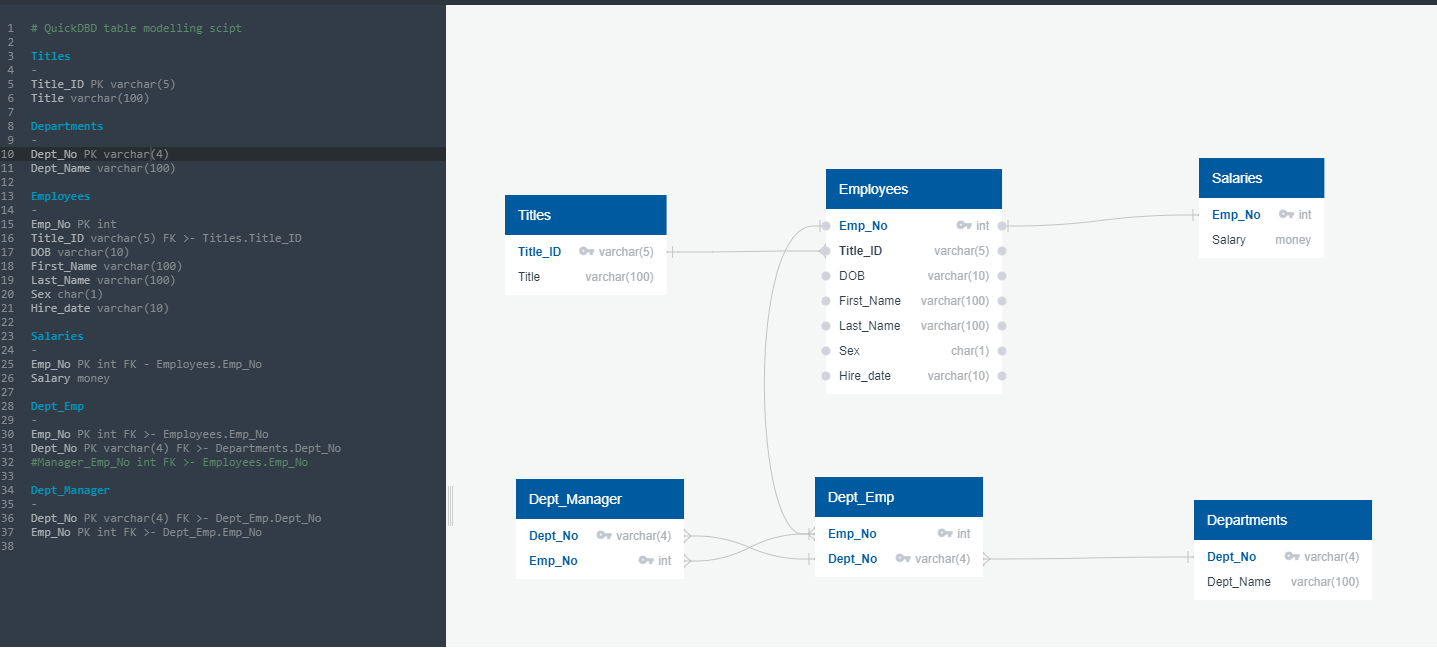
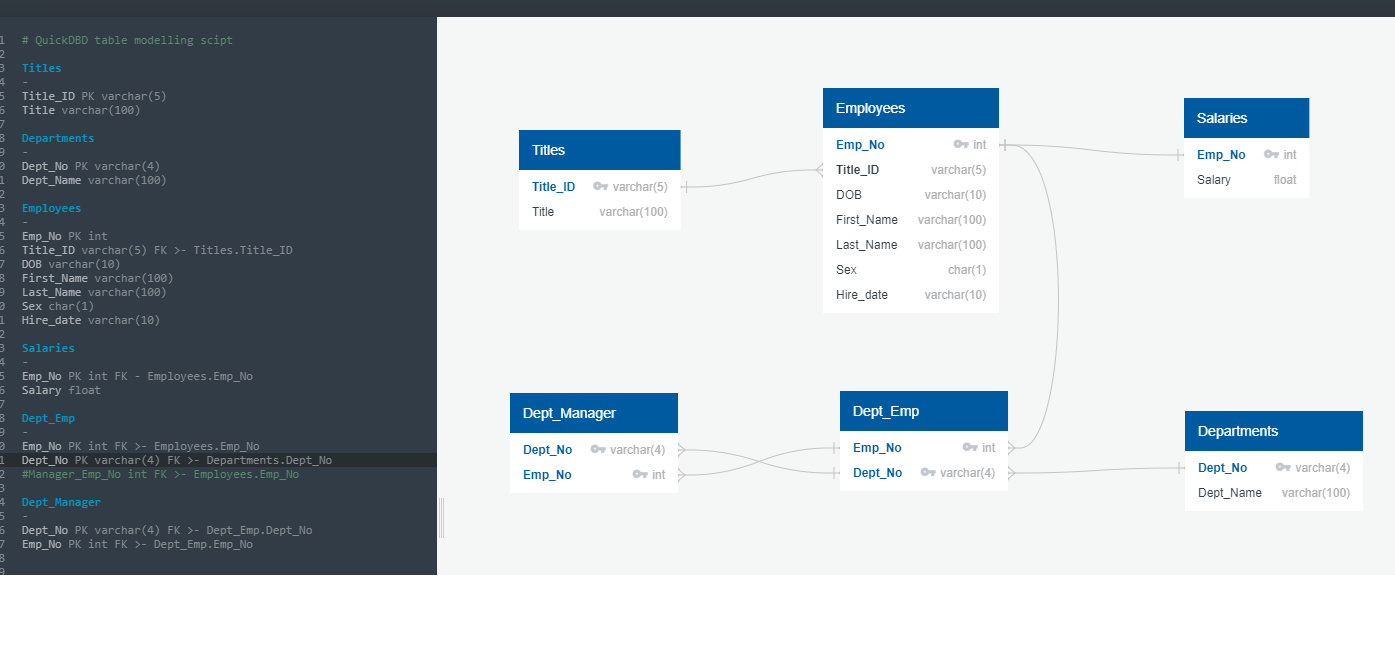
change salary type

diff --git a/EmployeeSQL/config.py b/EmployeeSQL/config.py
@@ -1,0 +1,2 @@
+# postgresql password
+postgresql_pwd = "BootCampML"
